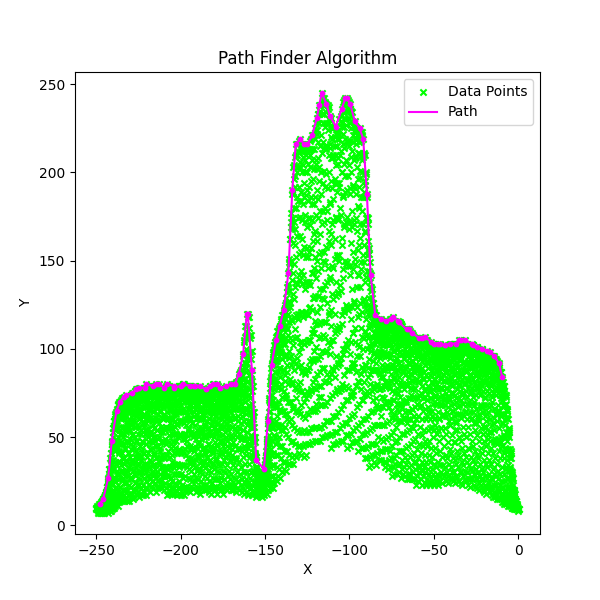
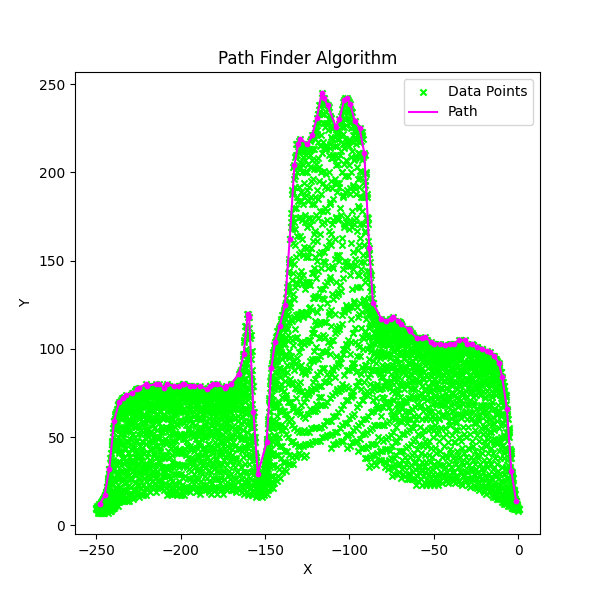
Cytomatic4 docs

diff --git a/DataAnalysis/data_analysis.py b/DataAnalysis/data_analysis.py
@@ -209,7 +209,7 @@ def data_analysis(db_name:str = "test.db", image_size:int = 100,out_name:str ="c
                 if not single_layer_mode:
                     image_fluo1 = cv2.imdecode(np.frombuffer(cell.img_fluo1, dtype=np.uint8), cv2.IMREAD_GRAYSCALE)
                     fluo_out1 = cv2.imdecode(np.frombuffer(cell.img_fluo1, dtype=np.uint8), cv2.IMREAD_COLOR)
-                    cv2.drawContours(fluo_out1,pickle.loads(cell.contour),-1,(0,0,255),1)
+                    cv2.drawContours(fluo_out1,pickle.loads(cell.contour),-1,(0,255,0),2)
                     cv2.imwrite(f"Cell/fluo1/{n}.png",fluo_out1)
                     output_image =  np.zeros((image_size,image_size),dtype=np.uint8)
                     # cv2.drawContours(output_image, [pickle.loads(cell.contour)], 0, 255, thickness=cv2.FILLED)
@@ -437,8 +437,8 @@ def data_analysis(db_name:str = "test.db", image_size:int = 100,out_name:str ="c
                     data_points = np.array([[i[0],j] for i,j in zip(projected_points,temp_y)])
 
                     fig_path = plt.figure(figsize=(6, 6))
-                    split_num = 25
-                    delta_L = (np.max(x) - np.min(x)) / split_num
+                    split_num = 140
+                    delta_L = (np.max(x) - np.min(x)) / split_num +1
                     x = data_points[:, 0]
                     y = data_points[:, 1]
                     path = []
